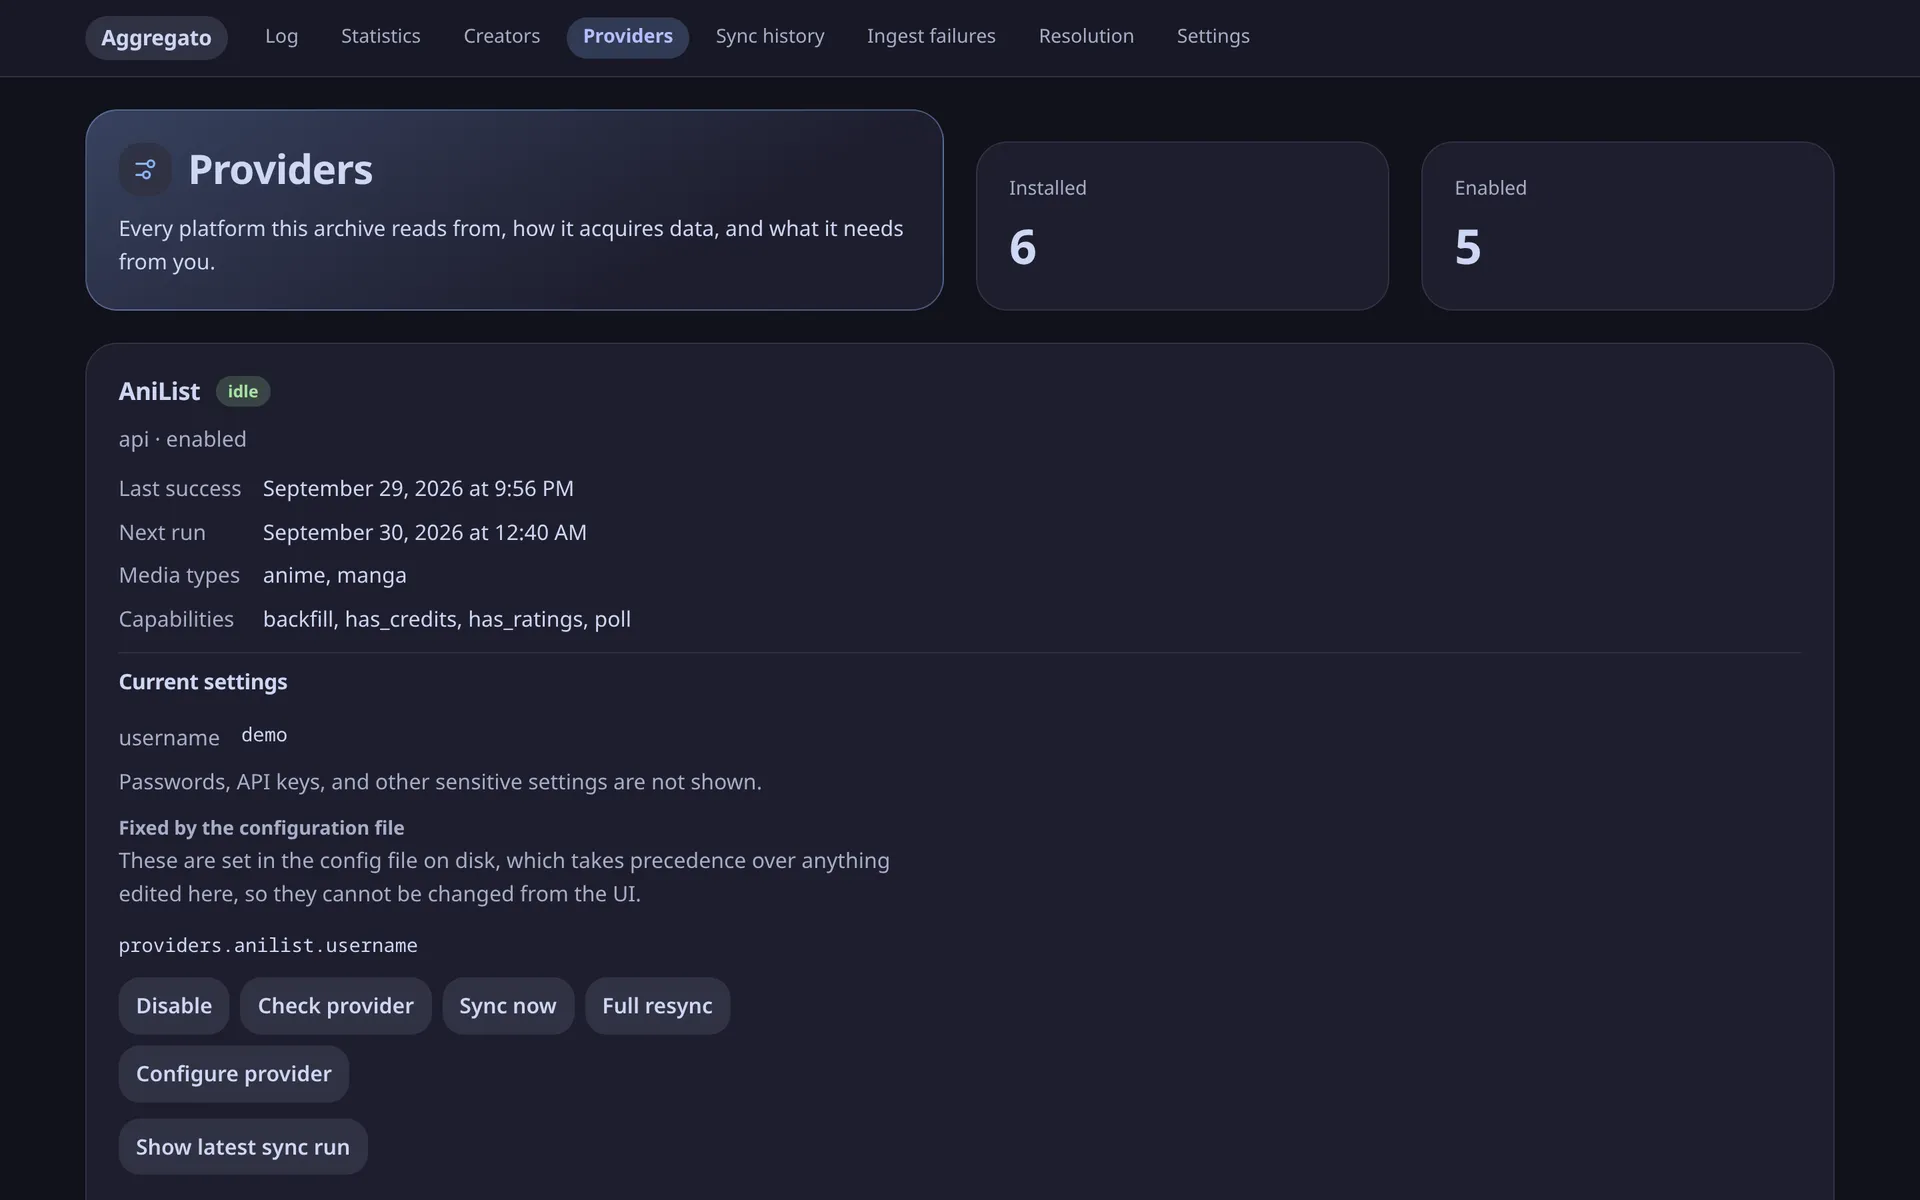
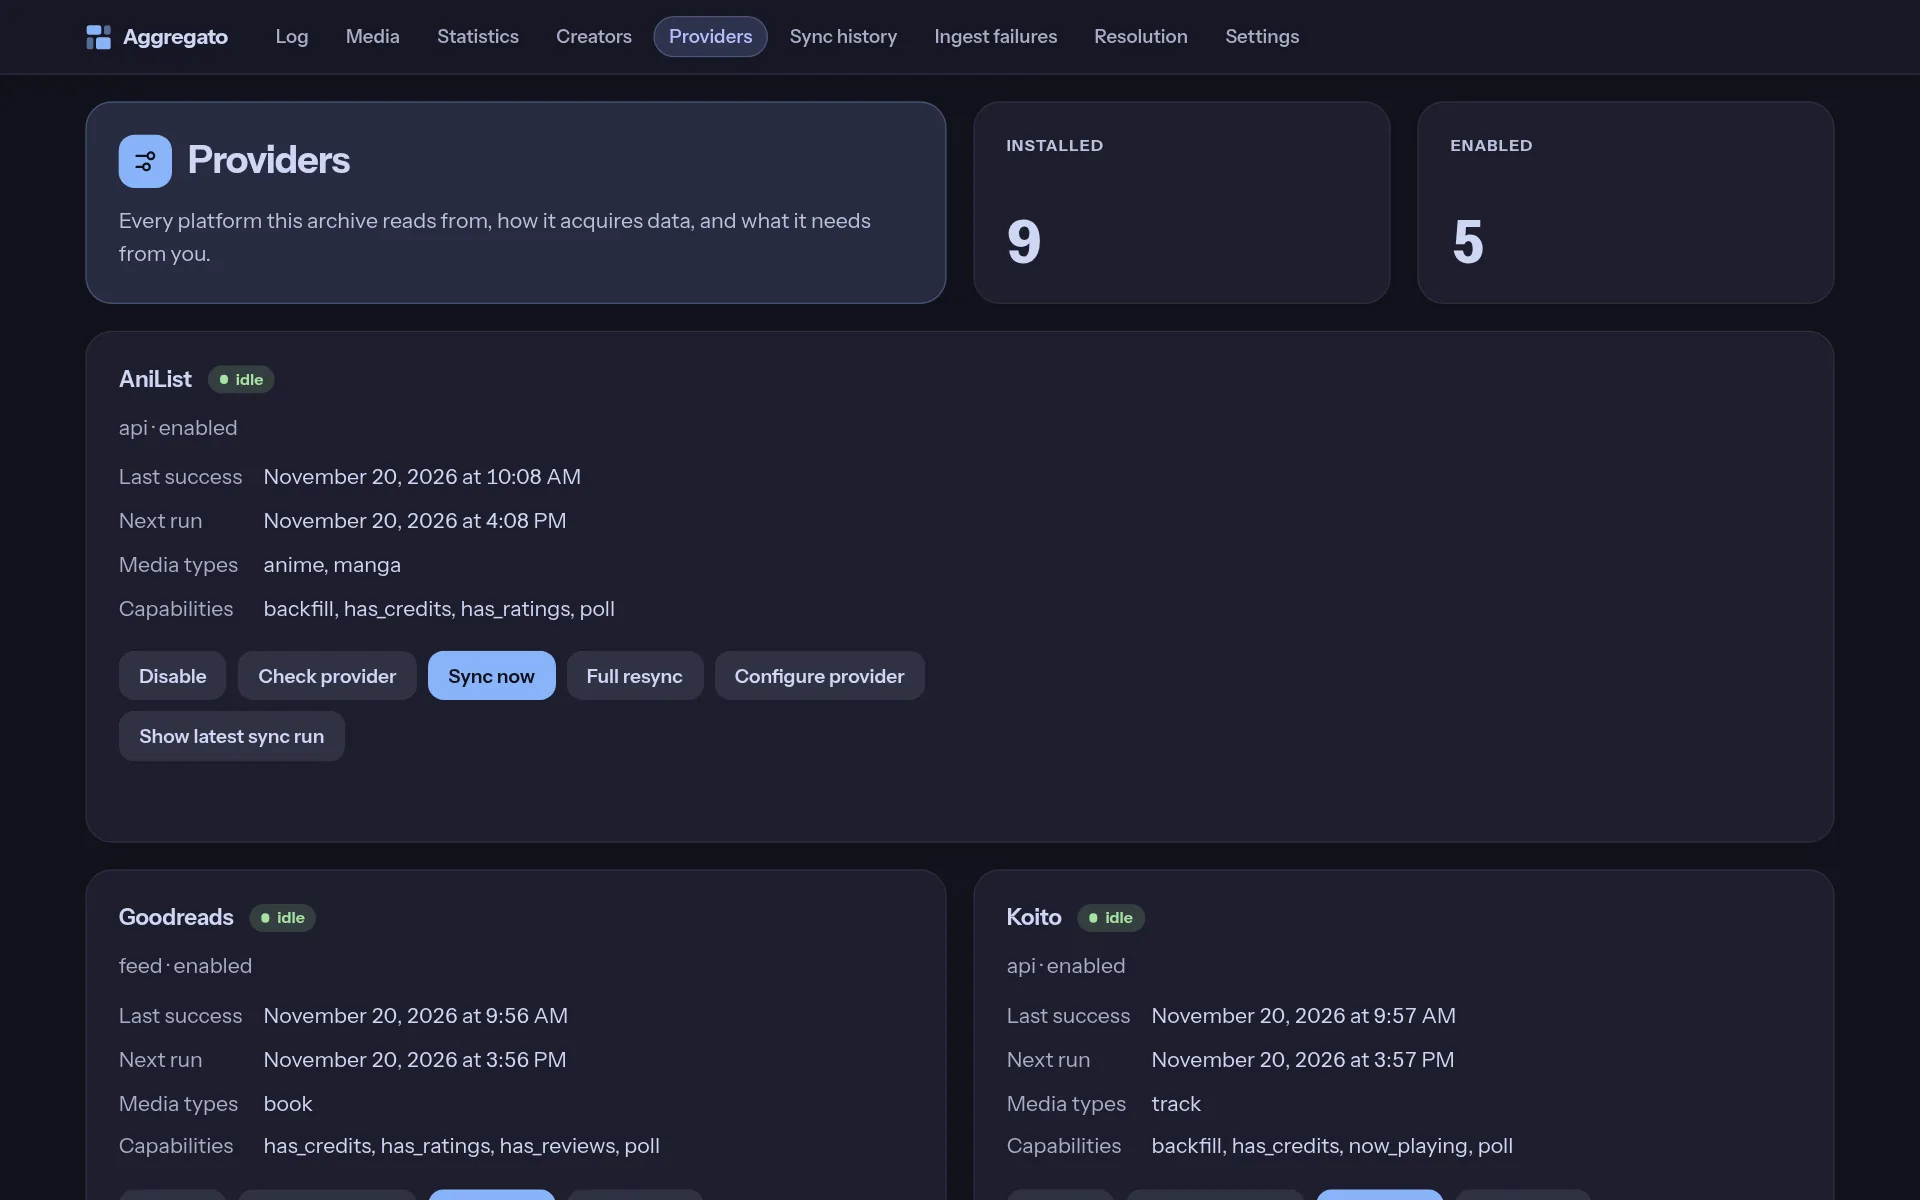
docs: refresh README and site screenshots for the 1.2.0 UI
Retake the six landing-page screenshots against the refined frontend, at
the same 1920x1200 size (a 1440x900 viewport at 4/3 scale) and from a
synthetic demo archive of about two thousand entries across five
platforms, as the page states. Alt texts are updated to describe what
each new image actually shows.

The README image was a GitHub attachment of the old dashboard; it now
points at site/screenshots/dashboard.webp so it stays current with the
site.

diff --git a/site/index.html b/site/index.html
@@ -405,7 +405,7 @@
             <li class="chip"><i></i>Spotify <small>listens</small></li>
           </ul>
           <div class="shot">
-            <img src="screenshots/stats.webp" width="1920" height="1200" alt="Aggregato's Statistics screen: 1,950 logged entries, a year-long activity heatmap, and the most logged works and creators." />
+            <img src="screenshots/stats.webp" width="1920" height="1200" alt="Aggregato's Statistics screen: 2,044 logged entries, a year-long activity heatmap, and the most logged works and creators." />
           </div>
         </div>
       </div>
@@ -507,7 +507,7 @@
               <p>The newest entries, and whether every provider is actually syncing. A provider in trouble is named, not reduced to a badge.</p>
               <ul><li>Live sync activity</li><li>Per-provider health</li></ul>
             </div>
-            <a class="frame" href="screenshots/dashboard.webp"><img src="screenshots/dashboard.webp" width="1920" height="1200" loading="lazy" alt="Dashboard: a sync health card reading “Every provider is healthy” with 5 providers and 0 needing attention, above a list of recent listens." /></a>
+            <a class="frame" href="screenshots/dashboard.webp"><img src="screenshots/dashboard.webp" width="1920" height="1200" loading="lazy" alt="Dashboard: a sync health tile reading “Every provider is healthy” with 5 providers and 0 needing attention, a live sync tile reading “No sync is running”, and a list of recent listens from Koito and ListenBrainz." /></a>
           </li>
           <li class="card">
             <div>
@@ -516,7 +516,7 @@
               <p>Filter by media family, type, platform, kind of entry or date range. Films, anime episodes and books interleave in one timeline.</p>
               <ul><li>Full-text search over titles and reviews</li><li>Stable, cursor-based paging</li></ul>
             </div>
-            <a class="frame" href="screenshots/log.webp"><img src="screenshots/log.webp" width="1920" height="1200" loading="lazy" alt="Log screen filtered to the screen family: Perfect Days and Past Lives watched on Letterboxd, then episode progress for Frieren from AniList." /></a>
+            <a class="frame" href="screenshots/log.webp"><img src="screenshots/log.webp" width="1920" height="1200" loading="lazy" alt="Log screen filtered to the screen family: Dandadan finished on AniList, then Perfect Days, Yi Yi and In the Mood for Love watched on Letterboxd." /></a>
           </li>
           <li class="card">
             <div>
@@ -525,7 +525,7 @@
               <p>An activity heatmap of every entry, plus your most logged works and creators — counted by what you logged, not by normalized scores.</p>
               <ul><li>Per-year activity</li><li>Top works and creators</li></ul>
             </div>
-            <a class="frame" href="screenshots/stats.webp"><img src="screenshots/stats.webp" width="1920" height="1200" loading="lazy" alt="Statistics screen with a calendar heatmap of 1,568 entries across 271 active days in 2026 and lists of most logged works and creators." /></a>
+            <a class="frame" href="screenshots/stats.webp"><img src="screenshots/stats.webp" width="1920" height="1200" loading="lazy" alt="Statistics screen with a calendar heatmap of 1,403 entries across 322 active days in 2026, and ranked lists of the most logged works and creators with bars scaled to the top count." /></a>
           </li>
           <li class="card">
             <div>
@@ -534,7 +534,7 @@
               <p>A work shows each platform's rating as given, its 0–100 value within that scale only, your review, the credits in the platform's own words, and every identifier it came with.</p>
               <ul><li>Merge and split duplicates</li><li>Identity links you can audit</li></ul>
             </div>
-            <a class="frame" href="screenshots/work.webp"><img src="screenshots/work.webp" width="1920" height="1200" loading="lazy" alt="Work page for Past Lives (2023): a Letterboxd rating of 5 on the letterboxd-5-star-halves scale, normalized 100 of 100 within that scale only, liked, with Celine Song credited as director." /></a>
+            <a class="frame" href="screenshots/work.webp"><img src="screenshots/work.webp" width="1920" height="1200" loading="lazy" alt="Work page for Past Lives (2023): two Letterboxd entries, a rating of 5 on the letterboxd-5-star-halves scale, normalized 100 of 100 within that scale only, liked, with Celine Song credited as director." /></a>
           </li>
           <li class="card">
             <div>
@@ -543,7 +543,7 @@
               <p>Each platform's form is generated from what it actually needs. Secrets are never shown again, and settings pinned by your config file say so.</p>
               <ul><li>Check credentials without syncing</li><li>Sync now or full resync</li></ul>
             </div>
-            <a class="frame" href="screenshots/providers.webp"><img src="screenshots/providers.webp" width="1920" height="1200" loading="lazy" alt="Providers screen: 6 installed, 5 enabled. AniList is idle, with its last success, next run, capabilities, current settings and buttons to disable, check, sync now or run a full resync." /></a>
+            <a class="frame" href="screenshots/providers.webp"><img src="screenshots/providers.webp" width="1920" height="1200" loading="lazy" alt="Providers screen: 9 installed, 5 enabled. AniList is idle, with its last success, next run, media types, capabilities and buttons to disable, check, sync now, run a full resync or configure it." /></a>
           </li>
           <li class="card">
             <div>
@@ -552,7 +552,7 @@
               <p>Every attempt a provider made, grouped by the run it retried, with counts and the class of any error — so a broken platform looks broken instead of looking empty.</p>
               <ul><li>Retries grouped by lineage</li><li>Ingest failures kept with their payloads</li></ul>
             </div>
-            <a class="frame" href="screenshots/sync-history.webp"><img src="screenshots/sync-history.webp" width="1920" height="1200" loading="lazy" alt="Sync history for Letterboxd: a series of successful runs and one failed run with the error “transport: Connection reset by peer”." /></a>
+            <a class="frame" href="screenshots/sync-history.webp"><img src="screenshots/sync-history.webp" width="1920" height="1200" loading="lazy" alt="Sync history for Letterboxd: a series of successful runs, and one run whose first attempt failed with “transport: Connection reset by peer” before a retry succeeded." /></a>
           </li>
         </ol>
       </div>

diff --git a/README.md b/README.md
@@ -1,7 +1,7 @@
 # Aggregato
 
 
-<img width="2524" height="1336" alt="Aggregato landing page" src="https://github.com/user-attachments/assets/4863cba9-3996-4b32-99a4-e6049eaa6d0a" />
+<img width="1920" height="1200" alt="Aggregato dashboard: every provider healthy, no sync running, and a list of recent listens." src="site/screenshots/dashboard.webp" />
 
 Aggregato pulls your media logs — films, series, books, comics, albums, games — out of the
 platforms you already log them on and keeps them in one local database you own, browsable through one
